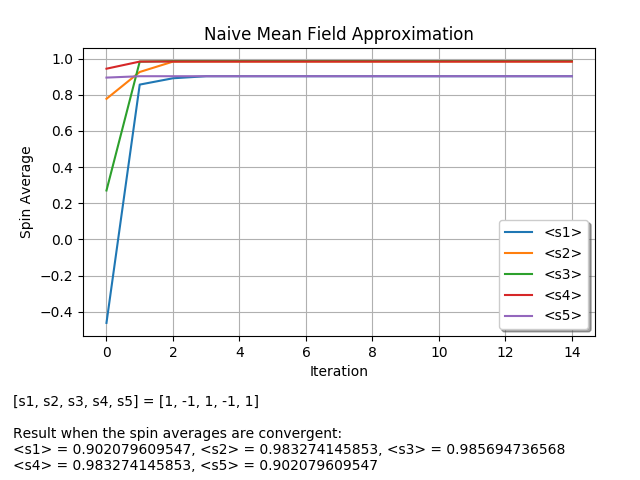
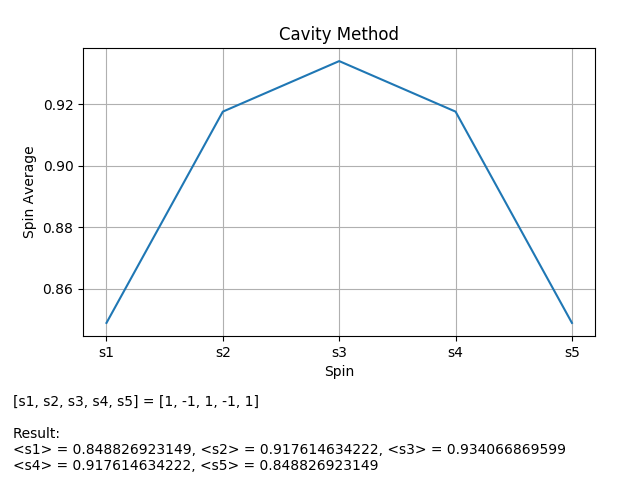
Update cavity codes and update figures

diff --git a/cavity.py b/cavity.py
@@ -24,6 +24,8 @@ def create_spins(n_spin):
 # The nearest interactions are handled exactly
 def spin_avg_cavity(spins, b, J, h):
 	spin_avg = spins
+	
+	# forward
 	tetha1to12 = b * h
 	tetha12to2 = np.arctanh(np.tanh(tetha1to12) * np.tanh(b * J))
 	tetha2to23 = b * h + tetha12to2
@@ -31,17 +33,29 @@ def spin_avg_cavity(spins, b, J, h):
 	tetha3to34 = b * h + tetha23to3
 	tetha34to4 = np.arctanh(np.tanh(tetha3to34) * np.tanh(b * J))
 	tetha4to45 = b * h + tetha34to4
+	tetha45to5 = np.arctanh(np.tanh(tetha4to45) * np.tanh(b * J))
 
-	spin_avg[0] = np.tanh(b * h + tetha12to)
-	spin_avg[1] = np.tanh(b * (J * spin_avg[0] + J * spin_avg[2] + h))
-	spin_avg[2] = np.tanh(b * (J * spin_avg[1] + J * spin_avg[3] + h))
-	spin_avg[3] = np.tanh(b * (J * spin_avg[2] + J * spin_avg[4] + h))
-	spin_avg[4] = np.tanh(b * (J * spin_avg[3] + h))
+	# backward
+	tetha5to45 = b * h
+	tetha45to4 = np.arctanh(np.tanh(tetha5to45) * np.tanh(b * J))
+	tetha4to34 = b * h + tetha45to4
+	tetha34to3 = np.arctanh(np.tanh(tetha4to34) * np.tanh(b * J))
+	tetha3to23 = b * h + tetha34to3
+	tetha23to2 = np.arctanh(np.tanh(tetha3to23) * np.tanh(b * J))
+	tetha2to12 = b * h + tetha23to2
+	tetha12to1 = np.arctanh(np.tanh(tetha2to12) * np.tanh(b * J))
+
+	spin_avg[0] = np.tanh(b * h + tetha12to1)
+	spin_avg[1] = np.tanh(b * h + tetha12to2 + tetha23to2)
+	spin_avg[2] = np.tanh(b * h + tetha23to3 + tetha34to3)
+	spin_avg[3] = np.tanh(b * h + tetha34to4 + tetha45to4)
+	spin_avg[4] = np.tanh(b * h + tetha45to5)
 	return spin_avg
 
 def main():
 	spins = create_spins(VAL_n_spin)
 	filename = "MFA_" + str(spins) + '.png'
+	x_label = ['s1', 's2', 's3', 's4', 's5']
 	description = "[s1, s2, s3, s4, s5] = " + str(spins)
 
 	s1 = []
@@ -50,24 +64,13 @@ def main():
 	s4 = []
 	s5 = []
 	
-	for i in np.arange(VAL_iteration):
-		spin_avg = spin_avg_cavity(spins, VAL_b, VAL_J, VAL_h)
-		s1.append(spin_avg[0])
-		s2.append(spin_avg[1])
-		s3.append(spin_avg[2])
-		s4.append(spin_avg[3])
-		s5.append(spin_avg[4])
-
-	line_s1 = plt.plot(np.arange(VAL_iteration), s1, label='<s1>')
-	line_s2 = plt.plot(np.arange(VAL_iteration), s2, label='<s2>')
-	line_s3 = plt.plot(np.arange(VAL_iteration), s3, label='<s3>')
-	line_s4 = plt.plot(np.arange(VAL_iteration), s4, label='<s4>')
-	line_s5 = plt.plot(np.arange(VAL_iteration), s5, label='<s5>')
-
+	spin_avg = spin_avg_cavity(spins, VAL_b, VAL_J, VAL_h)
+	line_s1 = plt.plot(x_label, spin_avg)
+	
 	plt.legend(loc='lower right', shadow=True)
 	plt.gca().set_position((.13, .3, .8, .6))
 
-	description += "\n\nResult when the spin averages are convergent:"
+	description += "\n\nResult:"
 	description += "\n<s1> = " + str(spin_avg[0])
 	description += ", <s2> = " + str(spin_avg[1])
 	description += ", <s3> = " + str(spin_avg[2])
@@ -76,7 +79,7 @@ def main():
 	plt.figtext(.02, .02, description)
 
 	plt.title('Cavity Method')
-	plt.xlabel("Iteration")
+	plt.xlabel("Spin")
 	plt.ylabel("Spin Average")
 	plt.grid()
 
